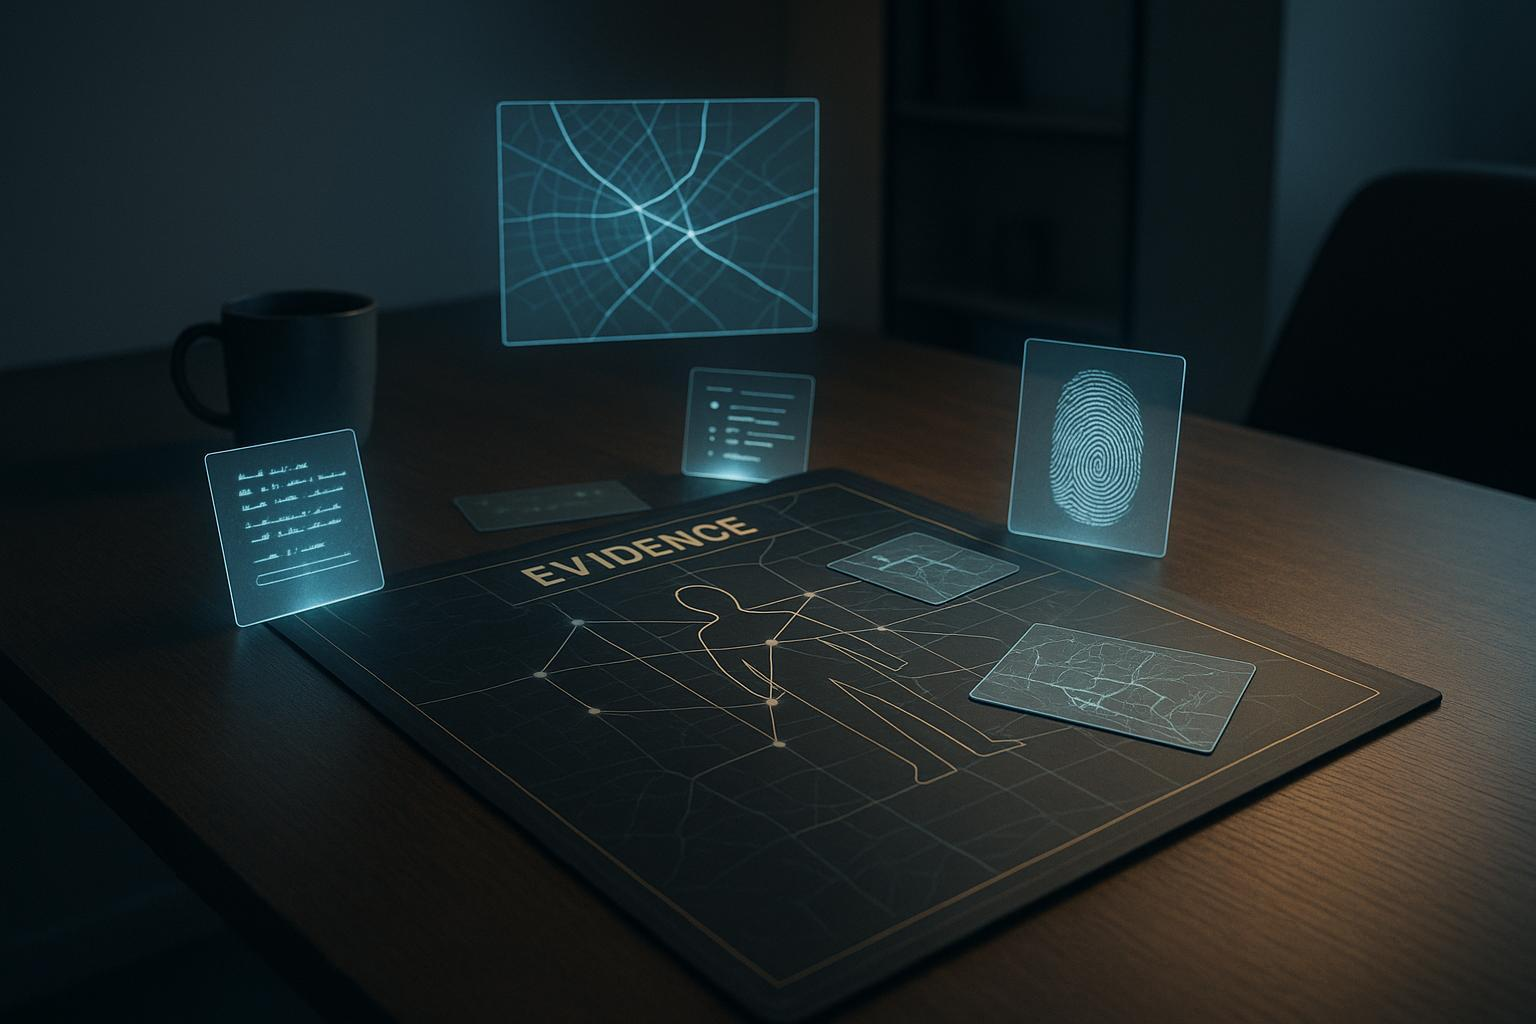
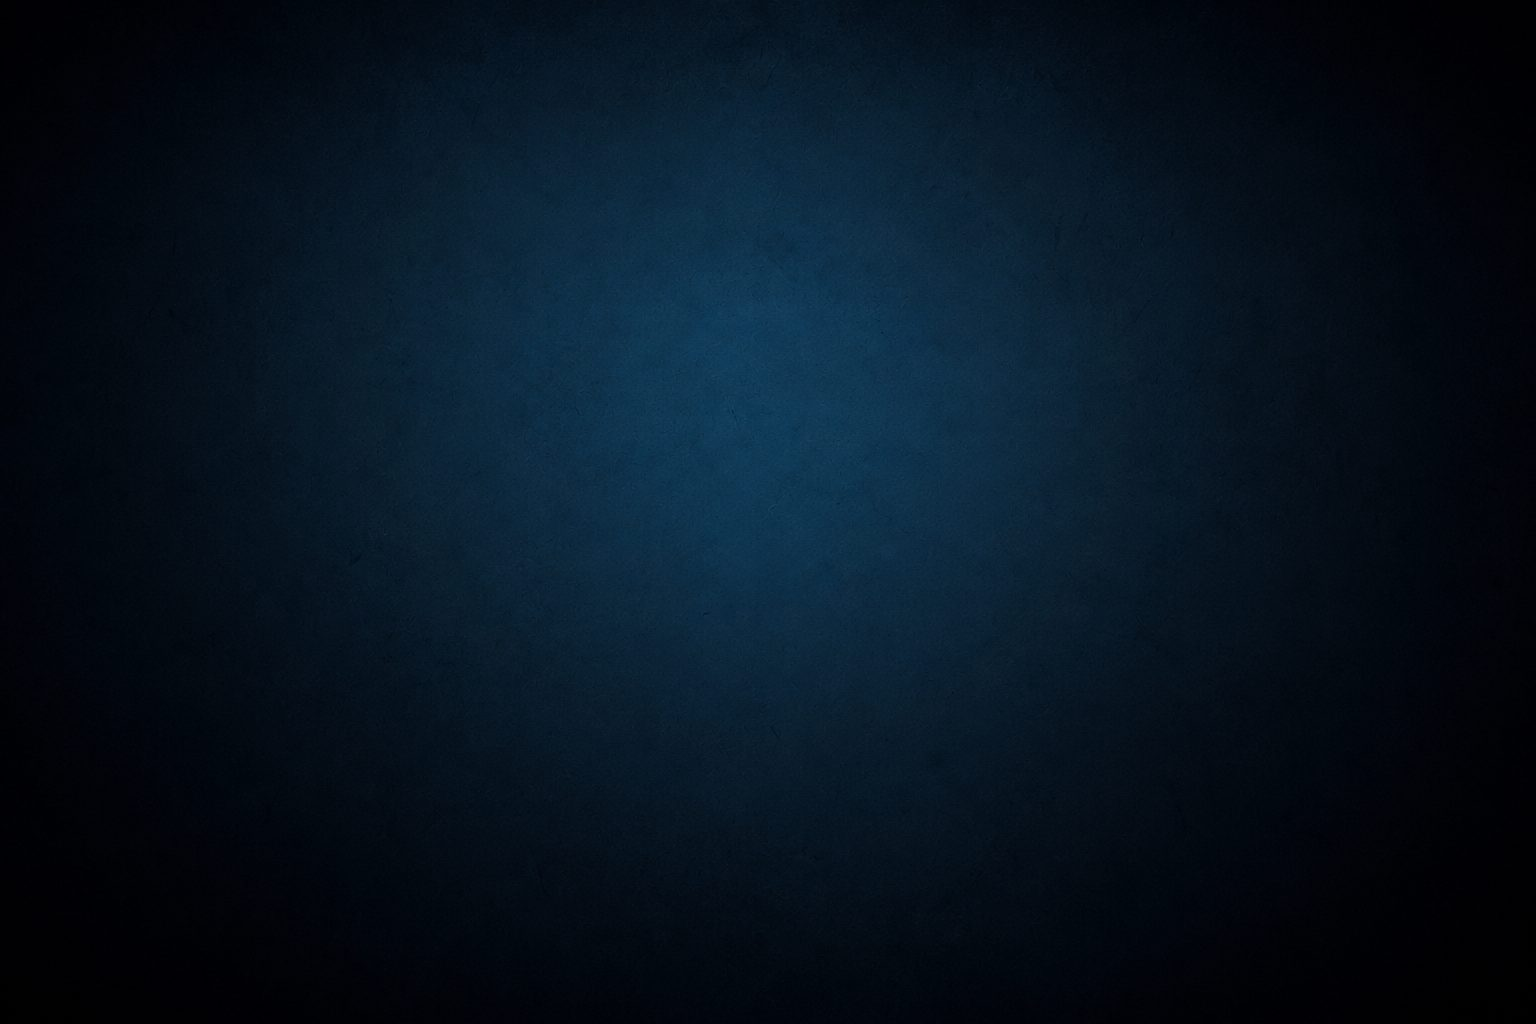
ajustando background

diff --git a/css/tableroagentes.css b/css/tableroagentes.css
@@ -10,7 +10,7 @@
 #tablero-agentes {
 
     width: 100%;
-    min-height: 700px;
+    min-height: 580px;
 
     display: flex;
     align-items: center;
@@ -32,12 +32,9 @@
     position: relative;
 
     width: min(1200px, 100%);
-    height: 700px;
+    height: 550px;
 
     transform-style: preserve-3d;
-
-    transform:
-        translateY(35px);
 
 }
 
